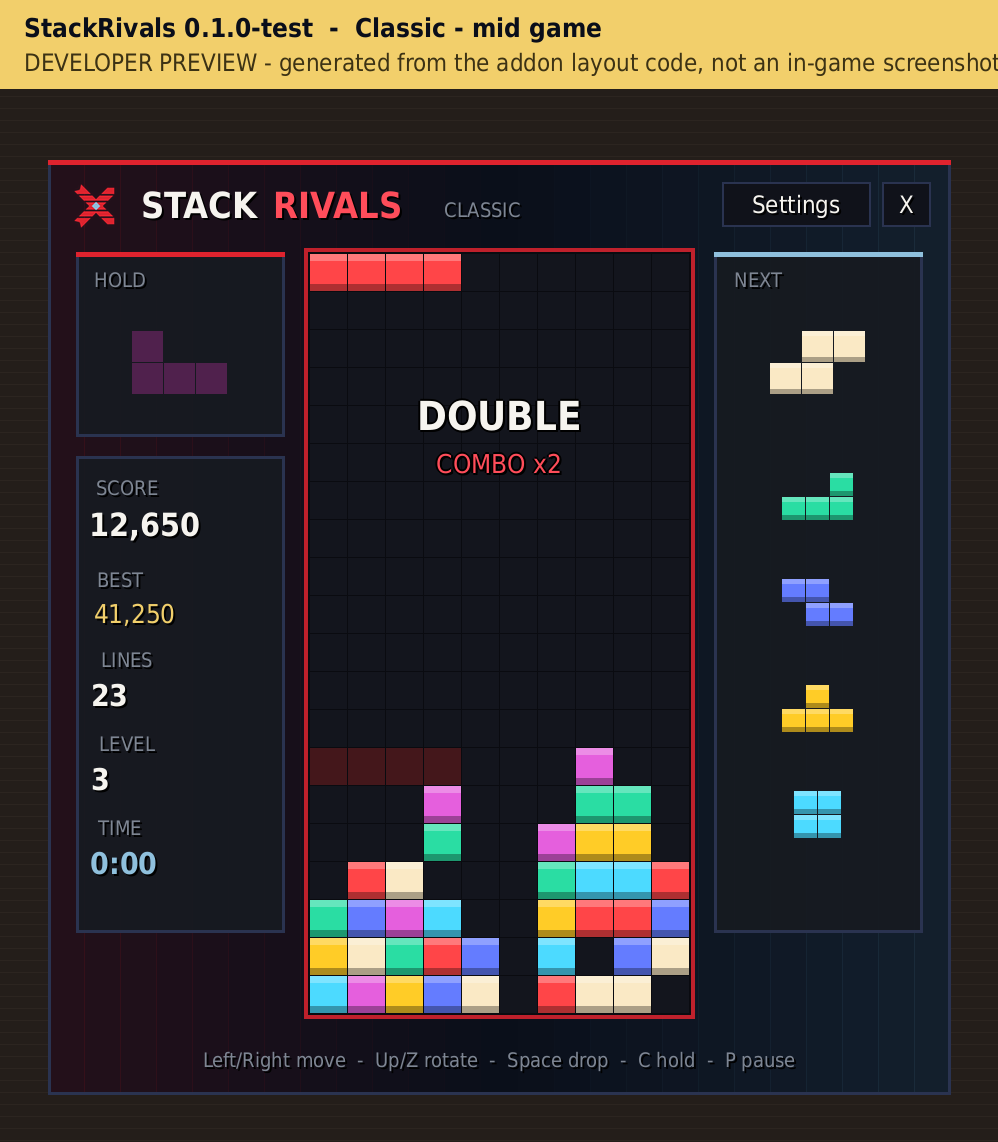
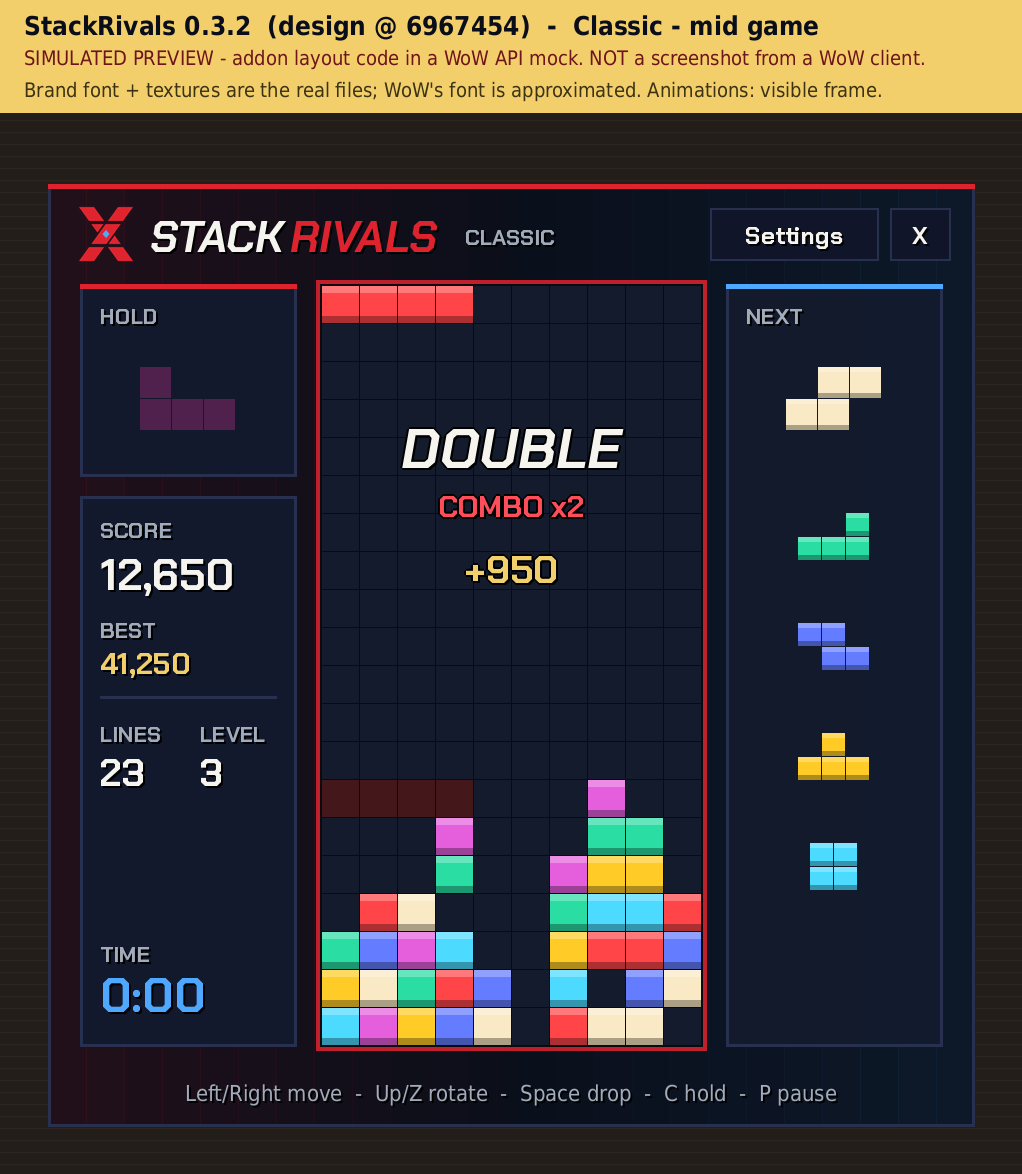
Previews 0.3.2 (design @ 6967454), drawn from the committed code, clearly marked as simulated
Claude-Session: https://claude.ai/code/session_01LiW3zmovtBQaJSqhVrufGo

diff --git a/docs/preview/README.md b/docs/preview/README.md
@@ -1,7 +1,15 @@
-# Developer previews — not in-game screenshots
+# Simulated previews — NOT screenshots from a WoW client
 
-Generated from the addon's real layout code running in the WoW API mock
-(`tests/screens.lua` → `tests/layout.lua` → `tools/render_preview.py`). Fonts, text metrics and
-Blizzard-owned textures are approximations. Real screenshots come from the client test.
+Every image is drawn from the addon's real layout code running in a WoW API mock
+(`tests/screens.lua` → `tests/layout.lua` → `tools/render_preview.py`). Each banner names the
+addon version (from the TOC), the branch and the commit it was drawn from.
 
-Regenerate: `lua5.1 tests/dump_screens.lua /tmp/prev && python3 tools/render_preview.py /tmp/prev StackRivals/Media`
+What is real: positions and sizes of every element, colours, the bundled Chakra Petch font and the
+addon's own textures (mark, icon). What is approximate: WoW's own body font (drawn with DejaVu),
+Blizzard textures, and animations (each shows its visible moment). The window is drawn at its base
+size; in WoW it is scaled to ~62% of the screen height.
+
+Final visual decisions wait for real in-client screenshots.
+
+Regenerate (after committing, so the banner names the commit):
+`lua5.1 tests/dump_screens.lua docs/preview && python3 tools/render_preview.py docs/preview StackRivals/Media && rm docs/preview/*.txt`
